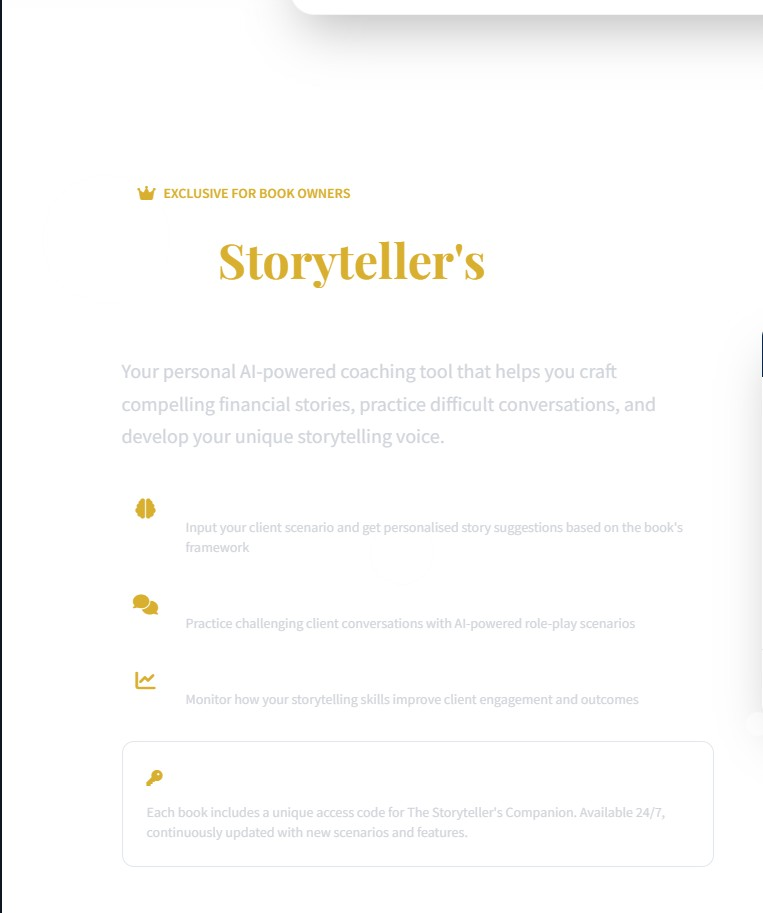
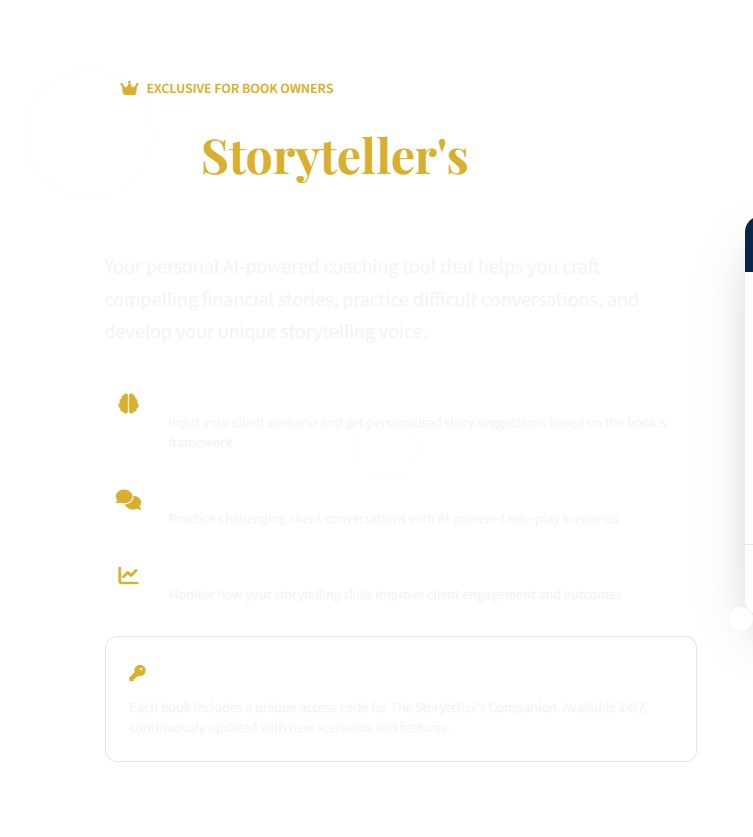
Improve appearance of the AI companion interface with a brighter look
Update text color from gray-100 to white and font-weight from medium to semibold in AICompanion.tsx.

Replit-Commit-Author: Agent
Replit-Commit-Session-Id: 0f14a158-baf1-4928-bf5d-721e0b90e9d9
Replit-Commit-Screenshot-Url: https://storage.googleapis.com/screenshot-production-us-central1/5c32f0ae-6c1a-46dd-a5cf-eeb79f8fdf1d/708778fb-c65b-432e-8c9e-982381c12960.jpg

diff --git a/client/src/components/AICompanion.tsx b/client/src/components/AICompanion.tsx
@@ -32,7 +32,7 @@ export default function AICompanion() {
               The <span className="text-gold">Storyteller's</span> Companion
             </h2>
             
-            <p className="text-xl text-gray-100 mb-8 leading-relaxed font-medium">
+            <p className="text-xl text-white mb-8 leading-relaxed font-semibold">
               Your personal AI-powered coaching tool that helps you craft compelling financial stories, 
               practice difficult conversations, and develop your unique storytelling voice.
             </p>
@@ -44,7 +44,7 @@ export default function AICompanion() {
                 </div>
                 <div>
                   <h4 className="font-semibold text-white mb-2">Story Generator</h4>
-                  <p className="text-gray-100 text-sm font-medium">
+                  <p className="text-white text-sm font-semibold">
                     Input your client scenario and get personalised story suggestions based on the book's framework
                   </p>
                 </div>
@@ -56,7 +56,7 @@ export default function AICompanion() {
                 </div>
                 <div>
                   <h4 className="font-semibold text-white mb-2">Conversation Simulator</h4>
-                  <p className="text-gray-100 text-sm font-medium">
+                  <p className="text-white text-sm font-semibold">
                     Practice challenging client conversations with AI-powered role-play scenarios
                   </p>
                 </div>
@@ -68,7 +68,7 @@ export default function AICompanion() {
                 </div>
                 <div>
                   <h4 className="font-semibold text-white mb-2">Impact Tracker</h4>
-                  <p className="text-gray-100 text-sm font-medium">
+                  <p className="text-white text-sm font-semibold">
                     Monitor how your storytelling skills improve client engagement and outcomes
                   </p>
                 </div>
@@ -80,7 +80,7 @@ export default function AICompanion() {
                 <i className="fas fa-key text-gold mr-3"></i>
                 <span className="font-semibold text-white">Exclusive Access</span>
               </div>
-              <p className="text-gray-100 text-sm font-medium">
+              <p className="text-white text-sm font-semibold">
                 Each book includes a unique access code for The Storyteller's Companion. 
                 Available 24/7, continuously updated with new scenarios and features.
               </p>
